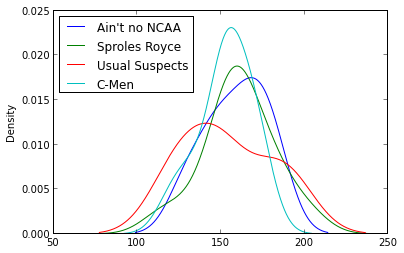
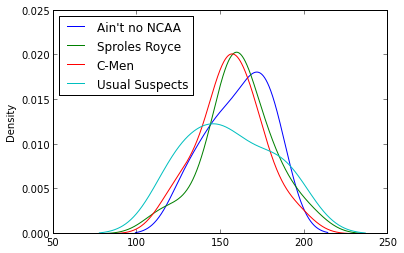
Finalized fantasy football post

diff --git a/_posts/2012-12-11-projecting-fantasy-football-playoff-results.md b/_posts/2012-12-11-projecting-fantasy-football-playoff-results.md
@@ -7,29 +7,33 @@ tags: [yql, monte carlo, simulation, python, api, yahoo]
 
 # Projecting Fantasy Football Playoff Results with Monte Carlo Simulation
 
-For me, the most interesting facet of fantasy football has been the wealth of data available and novl ways to apply it. Fantasy baseball fans might argue that their game has even more of it but, honestly, who has the time?
+For seven or eight years now, I've been involved in one or two fantasy football leagues. For me, the most interesting facet of the game has been the wealth of data available and novel ways to apply it. Team stats, individual player stats, projections, all manner of scoring, drafts, trades, benching vs playing - all of these give a data nerd enough to dissect for days on end. 
 
-So, as I decided to embrace my inner quant, one of the first things I thought I could turn my eye to is one of my fantasy football leagues. This turned out to be an auspicious year to get this thought, as (unlike most years) I find myself at the top of my league (soon to be bumped to #2 I fear) and with a guaranteed playoff berth. This keeps me interested enough to give it a go this time around.
+So, as I decided to embrace my inner quant, one of the first things I thought I could turn my eye to is one of my fantasy football leagues. This is probably due, in no small part, to my performance this year in one of my leagues.  Whereas I usually find myself at the bottom of the pile, I somehow managed to finish the "regular season" this year ranked #1 in the league, and a guaranteed playoff berth.  Most years at this time, I've pretty much checked out.  Not this time.
+
+I'll talk a little about the tools I used, the process I followed and the results - along with the many weaknesses in this admittedly simplistic approach.
 
 ## What I learned
-- Using the [Yahoo! Fantasy API](http://developer.yahoo.com/fantasysports/), more specifically the YQL version with the [Python YQL library](http://docs.python-yql.org/en/latest/).
-- Deeper understanding of Python and [Pandas](http://pandas.pydata.org/) data structures.
-- Use of the Python [Pickle](http://docs.python.org/2/library/pickle.html) library for data serialization.
-- More than I ever wanted to know about 3-legged [OAuth](http://en.wikipedia.org/wiki/OAuth).
+- Using the [Yahoo! Fantasy API](http://developer.yahoo.com/fantasysports/), more specifically the YQL version with the [Python YQL library](http://docs.python-yql.org/en/latest/)
+- Deeper understanding of Python and [Pandas](http://pandas.pydata.org/) data structures
+- Use of the Python [Pickle](http://docs.python.org/2/library/pickle.html) library for data serialization
+- More than I ever wanted to know about 3-legged [OAuth](http://en.wikipedia.org/wiki/OAuth)
 
-Also, rather than go the standard analytical route, I performed my first simulation - in this case, a simple [Monte Carlo](http://en.wikipedia.org/wiki/Monte_Carlo_method) simulation based on historical scores from the league.
+Rather than go the standard analytical route, I performed my first simulation - in this case, a simple [Monte Carlo](http://en.wikipedia.org/wiki/Monte_Carlo_method) simulation based on historical scores from the league.  This allowed me to project some (admittedly suspect and impossible to test) probabilities of different outcomes.  I tested the assumptions driving this simulation, showed that they're not completely valid, then totally plowed ahead anyway.
+
+My code, such as it is, is [here](https://github.com/wimsy/ffball).
 
 ## How I pulled it together
-I originally started down the path of trying to use Yahoo!'s standard [web service](http://developer.yahoo.com/fantasysports/guide/) by forming URLs and parsing the response as I've done before with other APIs. However, I had a great deal of difficulty with this, eventually giving up when authentication broke every time I had to use a semicolon in a query, which is absolutely essential.  
+I originally started down the path of trying to use Yahoo!'s standard [web service](http://developer.yahoo.com/fantasysports/guide/) by forming URLs and parsing the response as I've done before with other APIs. However, I had a great deal of difficulty with this, eventually giving up when authentication broke every time I had to use a semicolon in a query, which is absolutely essential.  A little searching suggests that this is a common issue, but I can't say I exhaustively sought solutions.
 
-So, I turned to the YQL library from the nice folks over at [Project Fondue](http://projectfondue.com/), and all was revealed! Once I learned by way through [YQL syntax](http://developer.yahoo.com/yql/), and figured out how it applied to the Fantasy Sports API, I was quickly up and running, downloading our league's scores and stats, and playing with the numbers.
+After that, I turned to the YQL library from the nice folks over at [Project Fondue](http://projectfondue.com/), and all was revealed! Once I hacked by way through [YQL syntax](http://developer.yahoo.com/yql/) and figured out how it applied to the Fantasy Sports API, I was quickly up and running - downloading our league's scores and stats and playing with the numbers in [iPython](http://ipython.org/).
 
-My initial plan was to do some basic data analysis on the scores and put together some hypotheses from that (trending, standard deviations, etc.). But, then it occurred to me that projecting playoff results with a simple Monte Carlo simulation was the way to go.
+My initial plan was to do some basic data analysis on the scores and put together some hypotheses from that (time series analysis, forecasting, etc.). But, then it occurred to me that projecting playoff results with a simple Monte Carlo simulation might be more fun (and achievable) in a reasonable amount of time.
 
 ## The results
-Starting with an initial ranking (top four teams go to the two-round playoffs), I set up matchups for the semifinals, then simulated games based on the historical scoring statistics for each team (of course, this is incredibly simplistic, but I'm just getting started here!).
+Starting with an initial ranking (top four teams go to the two-round playoffs), I set up matchups for the semifinals, then simulated games based on the historical scoring statistics for each team. Of course, this is incredibly simplistic, but I'm just getting started here!
 
-Then I had my Python script play them over and over, advancing the winning and losing teams to their respective finals positions, and determining the teams' final ranks.  Over 100,000 simulated playoffs, I was able to converge on a probability of each of four contenders to win it all - or achieve any particular final ranking.
+Then I wrote a Python script to play them over and over, advancing the winning and losing teams to their respective finals positions, and determining the teams' final ranks.  Over 100,000 simulated playoffs, I was able to converge on a probability of each of four contenders to win it all - or achieve any particular final ranking.
 
 Here are the teams' final rankings probabilities:
 
@@ -38,57 +42,65 @@ Here are the teams' final rankings probabilities:
 		<td>Final Rank</td>
 		<td>Ain't no NCAA</td>
 		<td>Sproles Royce</td>
-		<td>Usual Suspects</td>
 		<td>C-Men</td>
+		<td>Usual Suspects</td>
 	</tr>
 	<tr>
 		<td>1st</td>
-		<td>31%</td>
-		<td>32%</td>
-		<td>19%</td>
-		<td>17%</td>
+		<td>30%</td>
+		<td>30%</td>
+		<td>20%</td>
+		<td>20%</td>
 	</tr>
 	<tr>
 		<td>2nd</td>
-		<td>29%</td>
-		<td>26%</td>
-		<td>22%</td>
+		<td>27%</td>
+		<td>27%</td>
+		<td>23%</td>
 		<td>23%</td>
 	</tr>
 	<tr>
 		<td>3rd</td>
-		<td>21%</td>
-		<td>24%</td>
-		<td>28%</td>
+		<td>23%</td>
+		<td>23%</td>
 		<td>27%</td>
+		<td>26%</td>
 	</tr>
 	<tr>
 		<td>4th</td>
-		<td>19%</td>
-		<td>17%</td>
+		<td>20%</td>
+		<td>20%</td>
 		<td>30%</td>
-		<td>34%</td>
+		<td>31%</td>
 	</tr>
 </table>
 
-Of course, I wanted to understand whether my assumption that season-long scoring patterns were indicative of teams' fitness today.  Teams changed over time as players are injured, or turn out to be better or worse than expected, and coaches' weekly decisions to add or drop players, or play one player over another, can really impact performance.
+Of course, I wanted to understand whether my assumption that season-long scoring patterns were indicative of teams' fitness today.  Teams change over time as players are injured, or turn out to be better or worse than expected. Also, coaches' weekly decisions to add or drop players, or play one player over another, can really impact performance.
 
 Implicit in this model is the assumption that scoring is (more or less) normally distributed, and the distribution doesn't change over time. One way to get a sense for that is to take a look at the distributions of scoring.
 
 ![Distribution of scores](/images/ffball_dist_1.png "Full-season distribution of scores for the top four teams.")
 
-As you can see, not a single one of these is a clean normal distribution.  The most obvious is that of the *Usual Suspects*.  This appears to be essentially a bimodal distribution where (more often) the team hovers around unremarkable sub-150 point scores, but has a significant number of games in the more impressive high 100's.
+As you can see, not every scoring history is a clean normal distribution.  The most obvious is that of the *Usual Suspects*.  This appears to be essentially a bimodal distribution where (more often) the team hovers around unremarkable sub-150 point scores, but has a significant number of games in the more impressive high 100's.
 
-My own team, *Ain't no NCAA*, shows a tendency to frequently underperform relative to the more prominent solid performance centered around 160 or so points.  *Sproles Royce* is perhaps the most normal, but with a disturbing lack of low-performing games as noted by the trunated left side.  Finally, the *C-Men* have a very consistent average performance, with a few trips into sub-125 territory.
+My own team, *Ain't no NCAA*, shows a tendency to frequently underperform relative to the more prominent solid performance centered around 160 or so points.  *Sproles Royce* and *C-Men* are more normally distributed and centered at just over 150 points per game.
 
-To get a better feel for how things are looking now (versus a full-season look), I performed the same analysis on just the last seven weeks of the regular season.
+To get a better feel for how things are looking now (versus a full-season look), I performed the same analysis on just the last seven weeks of the regular season. Warning: Now we're talking about a very small data set, but the graphs are pretty anyway...
 
 ![Distribution of scores - last 7 weeks](/images/ffball_dist_2.png "Second-half distribution of scores for the top four teams.")
 
-As you can see, this new look doesn't bode well for me or my good friends the *Usual Suspects*. Our second-half performances have been decidedly sub-par, although my team benefited from one or two outlier performances timed perfectly to keep me at the top of the standings.  Meanwhile, *Sproles Royce* has come on strong in the final weeks (even occupying the top spot for one week), and that's obvious with their consistently high scoring.  And the *C-Men* have managed to carry their consistency through the final seven weeks.
+As you can see, this new look [doesn't bode well for me or my good friends the *Usual Suspects* paints a slightly different picture.
+
+*Ain't no NCAA*: My boys have seemed to either really bring it or stink it up over the last seven weeks, with peaks near 140 and 180.  This makes for a very unpredictable outcome for me.  I could probably model around this bimodal distribution but, hey, it's just a game!
+
+*Sproles Royce*: A more symmetrical distribution I can't hope to see. These guys can expect a consistent playoffs performance if the last seven weeks are indicative, with some slight tendency for outlying good and bad performances.
+
+*C-Men*: These guys have recently been consistently centered around a slightly sub-par level, but with significant departures to the extreme upside.  In normal mode, they can expect to lose at least one, but they have enough upside to bring it home.
+
+*Usual Suspects*: Their recent performances seem to be slightly weighted toward the negative, but they also have some long-tail high-scoring potential.
 
 ## Revised simulation
-I re-ran the simulation and, as expected, the projected results are not quite so sangunie for my *Ain't no NCAA* or the *Usual Suspects*.
+I re-ran the simulation and, as expected, the projected results don't look great for *Ain't no NCAA* or the *Usual Suspects*.
 
 <table>
 	<tr>
@@ -100,36 +112,60 @@ I re-ran the simulation and, as expected, the projected results are not quite so
 	</tr>
 	<tr>
 		<td>1st</td>
-		<td>22%</td>
-		<td>38%</td>
-		<td>15%</td>
-		<td>25%</td>
+		<td>26%</td>
+		<td>30%</td>
+		<td>27%</td>
+		<td>17%</td>
 	</tr>
 	<tr>
 		<td>2nd</td>
-		<td>25%</td>
+		<td>30%</td>
+		<td>22%</td>
+		<td>21%</td>
 		<td>27%</td>
-		<td>20%</td>
-		<td>28%</td>
 	</tr>
 	<tr>
 		<td>3rd</td>
-		<td>27%</td>
 		<td>20%</td>
-		<td>27%</td>
-		<td>25%</td>
+		<td>20%</td>
+		<td>29%</td>
+		<td>22%</td>
 	</tr>
 	<tr>
 		<td>4th</td>
-		<td>26%</td>
-		<td>15%</td>
-		<td>38%</td>
-		<td>22%</td>
+		<td>24%</td>
+		<td>20%</td>
+		<td>23%</td>
+		<td>34%</td>
 	</tr>
 </table>
 
-In fact, the now-4th place *C-Men* have a higher likelihood of winning it all than my *Ain't no NCAA* and *Sproles Royce* - in second place now - is the heavy favorite to win the championship.  
+Somewhat ironically, the recent *C-Men* victory that pushed them from 4th to 3rd place has damaged their prospects if recent performance is an indicator of playoffs performance. The two recently strongest teams are in positions 2 and 3, lessening each of their prospects to advance to the finals.  Both are favorites f they do advance, however. 
 
-Of course, there's no telling if even this is a valid model. The sample size is small, and there is likely more predictive power in the data available.  Maybe the model would be more robust if I'd modeled indiviudal players' performances - certainly it would help to iron out the noise of changing rosters.  Or, how good are the projections provided by Yahoo!? If I had normalized on those would this model have more predictive power? Probably.
+My projection for the final ranking:
+<table>
+	<tr>
+		<td>Projected Final Rank</td>
+		<td>Team</td>
+	</tr>
+	<tr>
+		<td>1st Place</td>
+		<td>Sproles Royce</td>
+	</tr>
+	<tr>
+		<td>2nd Place</td>
+		<td>Ain't no NCAA'</td>
+	</tr>
+	<tr>
+		<td>3rd Place</td>
+		<td>C-Men</td>
+	</tr>
+	<tr>
+		<td>4th Place</td>
+		<td>Usual Suspects</td>
+	</tr>
+</table>
+
+Of course, there's no telling if even this is a valid model. The sample size is small, and there is likely more unutilized predictive power in the data. Maybe the model would be more robust if I'd modeled individual players' performances - certainly it would help to iron out the noise of changing rosters.  Or, how good are the projections provided by Yahoo!? If I had normalized on those would this model be better? Probably.
 
 Who knows? All I really know is that I'm in the playoffs for the first time since I joined this league.  That will do.
